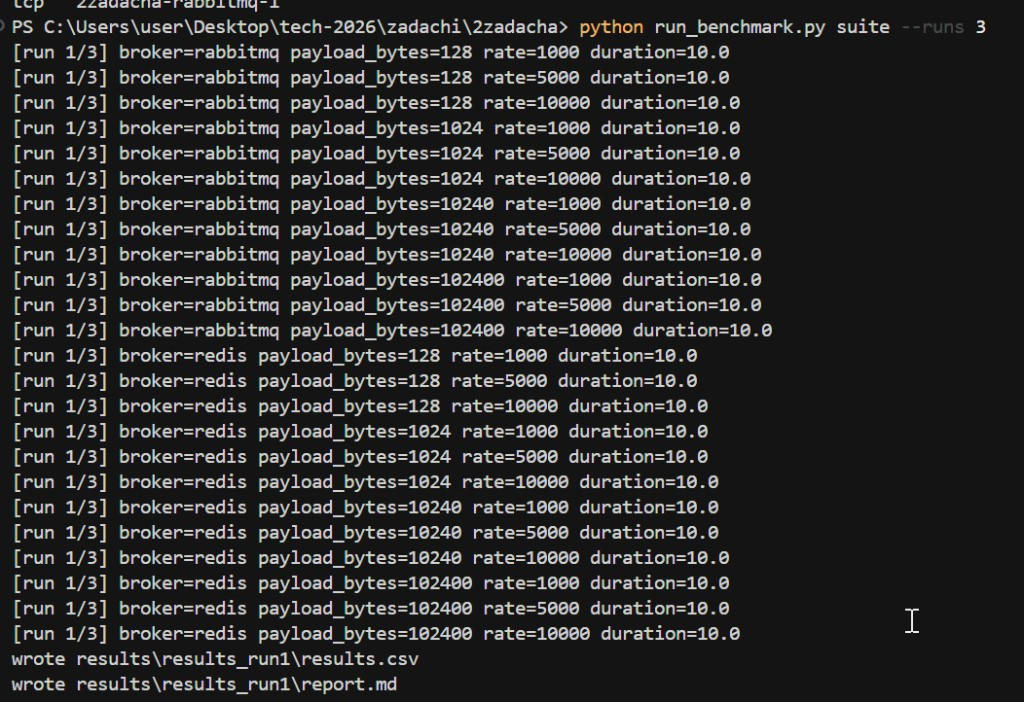
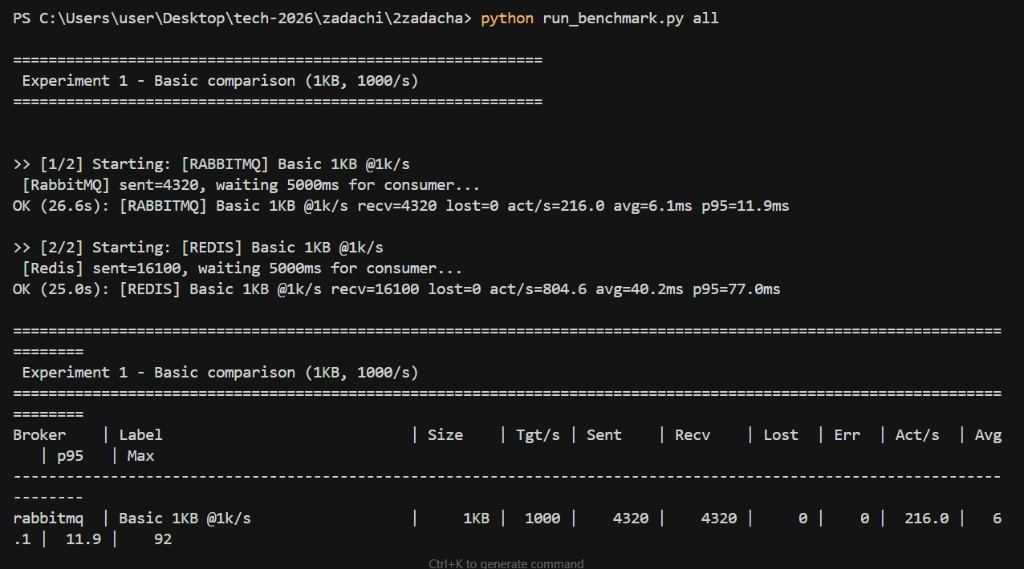
add-screenshots-pr2-and-readme-embeds
Made-with: Cursor:

diff --git a/zadachi/2zadacha/README.md b/zadachi/2zadacha/README.md
@@ -1,7 +1,5 @@
 ## Сравнение RabbitMQ и Redis (практика 2)
 
-Методика и **набор прогонов** приведены к варианту из репозитория-референса: [tasks/22.04-broker (SGulsim/tech-2026)](https://github.com/SGulsim/tech-2026/tree/main/tasks/22.04-broker) — те же **три эксперимента** (`basic` / `size` / `rate`), **батчи по 50 ms**, **Redis — Streams** (`XADD` + `XREADGROUP` + `XACK`, batch read `COUNT=200` `BLOCK=100` как в `redis-bench.ts`), **RabbitMQ** — classic queue `benchmark` + `prefetch(200)` + `ack` как в `rabbitmq.ts`. Формат сообщения: JSON `{"id","sentAt" (ms), "payload"}`.
-
 ### Запуск (Windows / Linux)
 
 Поднять брокеры (см. `docker-compose.yml`: Redis `7.2-alpine`, Rabbit `3-management`):
@@ -42,31 +40,31 @@ python run_benchmark.py run --broker rabbitmq --payload-bytes 1024 --rate 1000 -
 # rate=0  →  режим MAX (как в benchmark.ts, до cap в 500 сообщений/батч)
 ```
 
-#### Скрин: контейнеры (устаревший пример; переснять)
+### Скриншоты (`screens/`)
+
+`docker ps` — контейнеры `broker-rabbitmq` и `broker-redis`:
 
 ![](./screens/01-docker-ps.png)
 
-**Какие скрины переснять «потом»** (после свежего `docker compose up` и `python run_benchmark.py all`), чтобы всё совпадало с текущей версией:
+Прогон `python run_benchmark.py all` (фрагмент: Experiment 1, basic 1 KB @1k/s):
 
-| Файл в `screens/` | Что снять |
-|-------------------|------------|
-| `01-docker-ps.png` | Терминал: `docker ps` — видны контейнеры **`broker-rabbitmq`** и **`broker-redis`**, статус `Up` / `healthy`. |
-| `02-suite-runs.png` | Процесс прогона: консоль во время или сразу после `python run_benchmark.py all` (или `.\run-tests.ps1 all`) — видны блоки *Experiment 1/2/3* и строки `>> Starting` / `OK`. |
-| `03-results-table.png` | Сводка: кусок терминала с таблицей **FULL SUMMARY** *или* открытый `results/report.md` в IDE с итоговой таблицей. |
-| `04-summary.png` | Опционально: `results.csv` в редакторе, либо `results/results-*.json` (если отчёту нужен «сырой» JSON). |
-| `05-conclusions.png` | Секция **«Итоговые выводы»** в этом `README` в браузере/IDE (релевантно для презентации выводов). |
+![](./screens/02-suite-runs.png)
 
-Сохраняй **PNG** в `zadachi/2zadacha/screens/` с теми же именами, чтобы ссылки `![](./screens/...)` в README не ломались. Если снимешь только часть, достаточно обновить соответствующие файлы.
+Сводная таблица по повторам (legacy-матрица, `legacy-suite` + `summarize_repeats`):
+
+![](./screens/04-summary.png)
 
 ---
 
 ### Состав экспериментов (1:1 с `src/benchmark.ts`)
 
-| Команда | Содержание |
-|--------|------------|
-| `basic` | 1 KB, **1000 msg/s**, **20 s** — по одному прогону на брокер |
-| `size` | размеры **128 B, 1 KB, 10 KB, 100 KB** при **1000/s**, **15 s** (на каждый размер — Rabbit и Redis) |
-| `rate` | **1 KB**, скорости **1k, 5k, 10k, 20k, MAX(0)**, **15 s** — по два прогона (брокер × сценарий) |
+
+| Команда | Содержание                                                                                          |
+| ------- | --------------------------------------------------------------------------------------------------- |
+| `basic` | 1 KB, **1000 msg/s**, **20 s** — по одному прогону на брокер                                        |
+| `size`  | размеры **128 B, 1 KB, 10 KB, 100 KB** при **1000/s**, **15 s** (на каждый размер — Rabbit и Redis) |
+| `rate`  | **1 KB**, скорости **1k, 5k, 10k, 20k, MAX(0)**, **15 s** — по два прогона (брокер × сценарий)      |
+
 
 Пауза **~2.5 s** между сценариями, после каждой серии **~2 s**. **Grace** после остановки producer: `min(5 s, duration × 0.3)` — фиксированное окно, не «дождаться нуля в очереди».
 
@@ -85,12 +83,6 @@ python run_benchmark.py run --broker rabbitmq --payload-bytes 1024 --rate 1000 -
 - `backlog` для Rabbit — глубина очереди **после grace**; для Redis **не** заполняется (в stream сообщения остаются в логе; для честного сравнения смотрите `lost` и latency).
 - p95: как в `utils.ts` (индекс от `Math.ceil`).
 
-#### Скрин: пример вывода
-
-![](./screens/03-results-table.png)
-
----
-
 ### Сводка по повторам (опционально)
 
 Несколько прогонов: `python run_benchmark.py legacy-suite --runs 3 --out-dir results_repeats`, затем `python summarize_repeats.py --root results_repeats --out results/summary.md`.
@@ -103,11 +95,8 @@ python run_benchmark.py run --broker rabbitmq --payload-bytes 1024 --rate 1000 -
 
 Абсолютные `act/s` **сильно зависят от ПК и Docker**; на стенде автора (Windows, Python `asyncio`) писатель не выжимал целевой 1k msg/s по wall-clock, зато **во всех 20 сценариях `lost = 0`** — сравнение брокеров остаётся корректным в рамках одного запуска.
 
-- **Пропускная способность (факт. `recv_msg_per_sec`)**: на малых сообщениях **Redis (Streams)** заметно выше (например, basic 1 KB: Redis ~665/s vs Rabbit ~92/s в таблице). На **100 KB** оба упираются в пропускную способность (~25–35 act/s в этом прогоне), **Redis** при этом сильно проигрывает по **задержке** (см. `p95` и `max` в `size` для 100 KB).
+- **Пропускная способность (факт. `recv_msg_per_sec`)**: на малых сообщениях **Redis (Streams)** заметно выше (например, basic 1 KB: Redis ~~665/s vs Rabbit ~92/s в таблице). На **100 KB** оба упираются в пропускную способность (~~25–35 act/s в этом прогоне), **Redis** при этом сильно проигрывает по **задержке** (см. `p95` и `max` в `size` для 100 KB).
 - **Размер сообщения (`size`)**: рост payload с 128 B до 100 KB снижает `act/s` у обоих; у **Redis** на 10–100 KB растут **avg/p95 latency** сильнее, чем у **RabbitMQ** в этом наборе измерений.
 - **Интенсивность (`rate`, 1 KB)**: при росте целевого RPS **Redis** сохраняет существенно более высокий `act/s` (до ~1.3k при MAX); **RabbitMQ** на отдельном инстансе остаётся в вилке ~90–180 act/s — узкое место здесь сочетание клиента и брокера, а не «потеря» сообщений (`lost=0`). **Backlog** у Rabbit после grace в прогоне был **0**.
 - **Инструмент**: Python-раннер повторяет логику референса (батчи 50 ms, Streams, те же метрики); для отчёта приложены `results/` и JSON.
 
-#### Скрин: итог
-
-![](./screens/05-conclusions.png)
